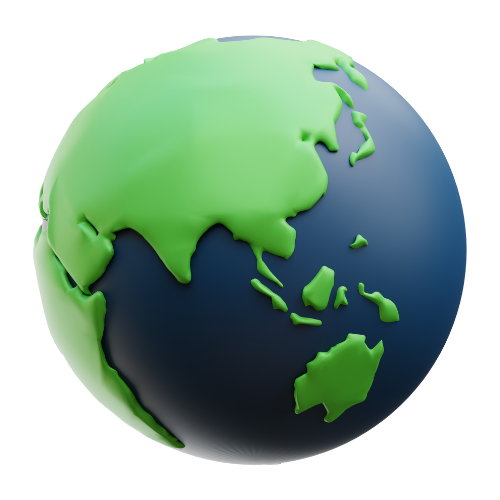
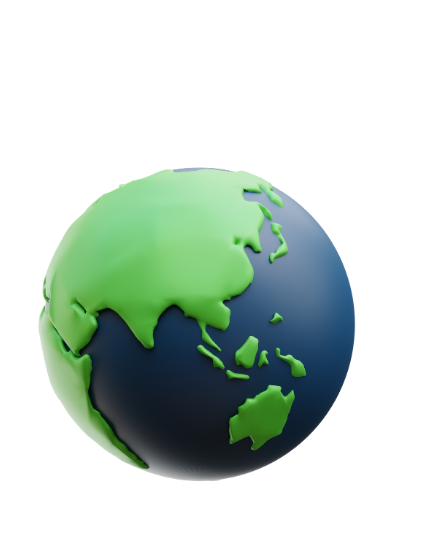
modif earth images

diff --git a/frontend/src/components/Earth.jsx b/frontend/src/components/Earth.jsx
@@ -32,7 +32,7 @@ const Earth = () => {
           src={EarthGreen}
           alt="EarthGreen"
           className="earthImg earthGreen"
-          style={{ filter: `opacity(${Math.max(0, hearthHealth * 4) / 25})` }}
+          style={{ filter: `opacity(${Math.max(0, hearthHealth * 2) / 50})` }}
           draggable={false}
         />
         <img
@@ -40,7 +40,7 @@ const Earth = () => {
           alt="EarthDead"
           className="earthImg earthDead"
           style={{
-            filter: `opacity(${Math.max(0, 1 - hearthHealth * 4) / 25})`,
+            filter: `opacity(${Math.max(0, 1 - hearthHealth * 2) / 50})`,
           }}
           draggable={false}
         />

diff --git a/frontend/src/styles/Earth.scss b/frontend/src/styles/Earth.scss
@@ -6,22 +6,24 @@
 
   .earthImg {
     position: absolute;
-  }
-
-  .earthNeutral {
-    top: 42%;
+    top: 10%;
     left: 44%;
-    width: 78%;
   }
 
-  .earthGreen {
-    top: 40%;
-    left: 40%;
-    width: 90%;
-  }
+  // .earthNeutral {
+  //   top: 42%;
+  //   left: 44%;
+  //   width: 78%;
+  // }
 
-  .earthDead {
-    left: 29%;
-    width: 200%;
-  }
+  // .earthGreen {
+  //   top: 40%;
+  //   left: 40%;
+  //   width: 90%;
+  // }
+
+  // .earthDead {
+  //   left: 29%;
+  //   width: 200%;
+  // }
 }

diff --git a/frontend/src/styles/Energy.scss b/frontend/src/styles/Energy.scss
@@ -18,7 +18,7 @@
     position: absolute;
     left: 20%;
     background-color: green;
-    border: 1px solid #df0b0b;
+    // border: 1px solid #df0b0b;
     width: 60%;
     height: 16%;
   }
